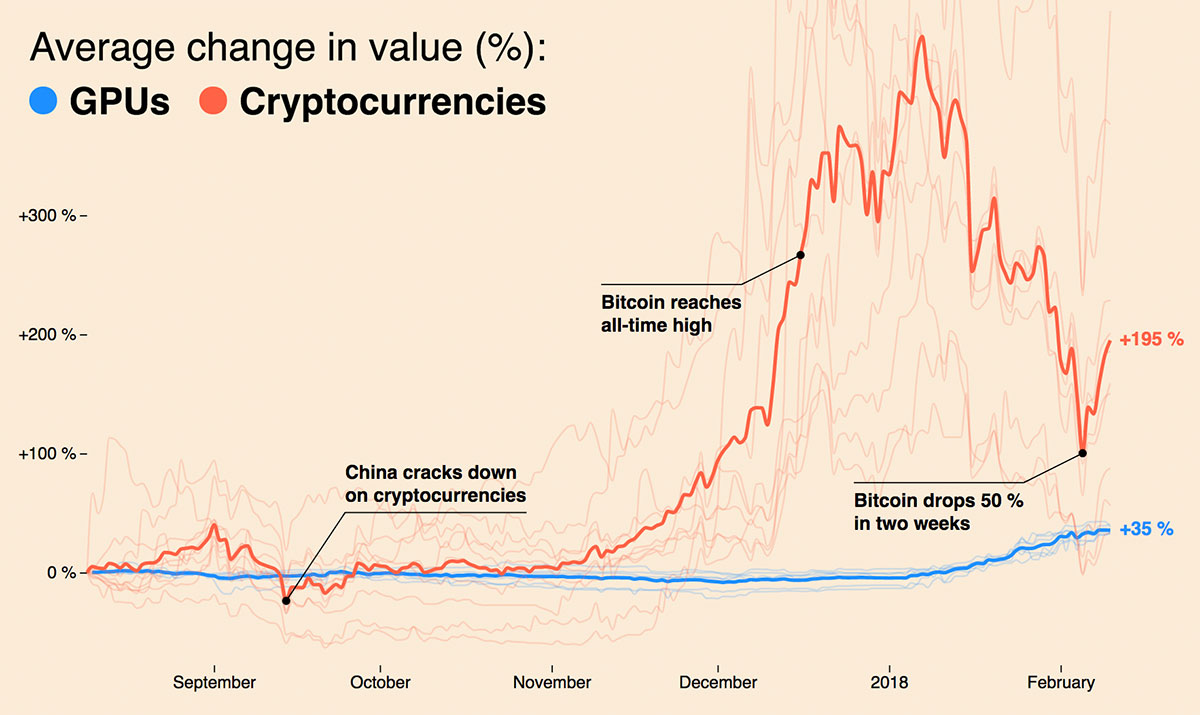
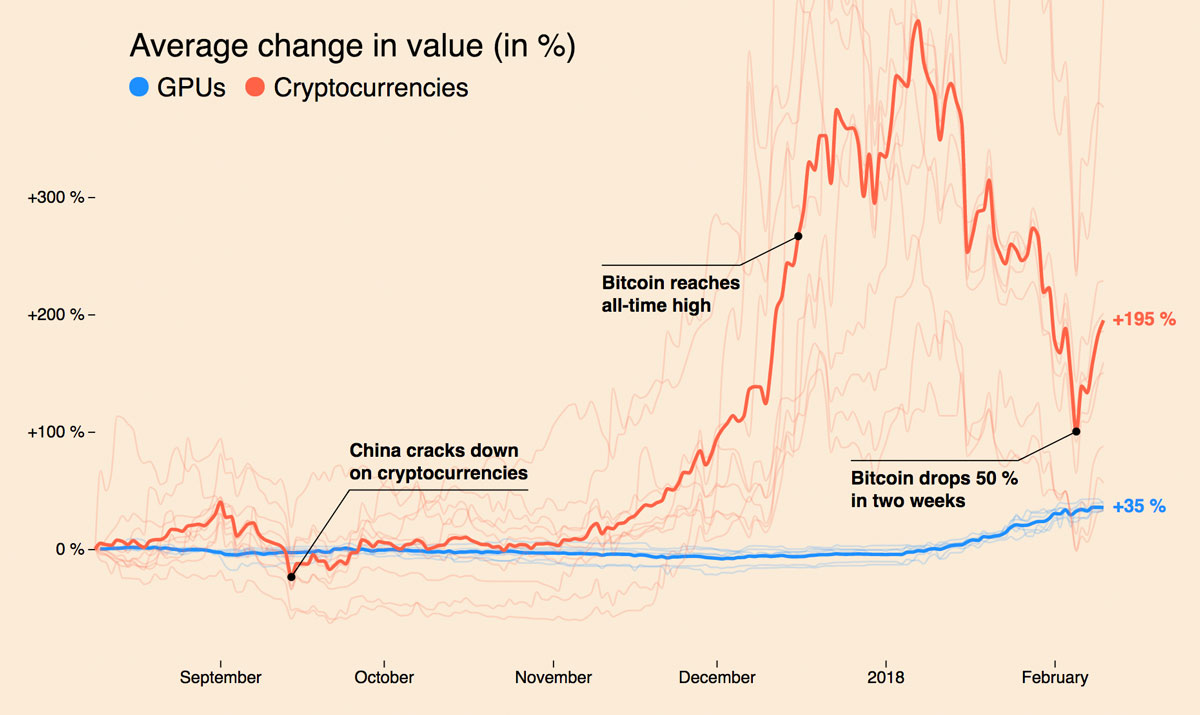
Minor changes

diff --git a/index.html b/index.html
@@ -54,7 +54,7 @@
 
         <p>The price surge is hurting everyone looking to buy a graphics cards for reasons other then cryptocurreny mining. The analysis shows how the increasing value for ten different cryptocurrencies is driving GPU prices on the German online market.</p>
 
-        <h3>Average percentage change in value</h3>
+        <h3 style="margin-bottom: 0">Average change in value (in %)</h3>
         <p class="key"><span class="circle gpus" style="margin-left: 0;"></span> GPUs <span class="circle currencies"></span> Cryptocurrencies</p>
       </div>
     </header>
@@ -62,15 +62,15 @@
     <figure id="chart"></figure>
 
     <section>
-      <p>Cryptocurrency miners are buying lots of mid- to high-end GPUs to keep their operations profitable in a very competitive market. Only half a year ago, the Nvidia Geforce GTX 1070 was available for about €410, now most GTX 1070 models are sold close to €600. The price for the average GPU was already above average in summer, but with the sudden spike in Bitcoin value (and public interest) before Christmas, we are in the middle of a second GPU price surge.</p>
+      <p>Cryptocurrency miners are buying lots of mid- to high-end GPUs to keep their operations profitable in a very competitive market. Only half a year ago, the Nvidia Geforce GTX 1070 was available for about €410, now most GTX 1070 models are sold close to €600. The price for the average GPU was already above average in summer, but with the sudden spike in Bitcoin value – and public interest – before Christmas, we are in the middle of a second GPU price surge.</p>
 
       <p>The price surge is fueled by an increasing demand for alternative cryptocurrencies, like Ethereum and Monero. It’s a problem that’s affecting pricing worldwide and it seems like card vendors can’t keep up with the demand. Countries that are attractive to cryptocurrencies miners (cheap power) might see an even bigger increase in GPU retail prices.</p>
 
-      <p>What could change the current situation? 1. Graphics card manufacturers could try to keep up with the  demand and develop more specialized mining GPUs 2. A sudden and continuing devaluation of cryptocurrencies could flood the second hand market with cheap, used GPUs from unprofitable mining rigs. In either case, we could finally put those GPUs to use again: Play PC games at 4K resolution, train neural networks and crack our neighbors’ WiFi passwords.</p>
+      <p>What could change the current situation? 1.) Graphics card manufacturers could try to keep up with the  demand and develop more specialized mining GPUs. 2.) A sudden and continuing devaluation of cryptocurrencies could flood the second hand market with cheap, used GPUs from unprofitable mining rigs. 3.) Stricter regulations and the loss of confidence due to high price swings could have the same effect. In either case, we could finally put those GPUs to use again: Play PC games at 4K resolution, train neural networks and crack our neighbor’s WiFi password.</p>
 
       <h3>Methodology</h3>
 
-      <p>The list of graphic cards includes popular, mid- to high-end consumer models. The prices have been retrieved from the German price comparison service <a href="https://www.idealo.de/" target="_blank">Idealo</a>and represent the cheapest available price at a given day.</p>
+      <p>The list of graphic cards analyzed includes popular, mid- to high-end consumer models. The prices have been retrieved from the German price comparison service <a href="https://www.idealo.de/" target="_blank">Idealo</a>and represent the cheapest available price at a given day.</p>
 
       <ul>
         <li>GeForce GTX 1080 Ti: <a href="https://www.idealo.de/preisvergleich/OffersOfProduct/5489383_-geforce-gtx-1080-ti-gigabyte.html" target="_blank">GigaByte</a>, <a href="https://www.idealo.de/preisvergleich/OffersOfProduct/5477351_-geforce-gtx-1080-ti-msi.html" target="_blank">MSI</a>, <a href="https://www.idealo.de/preisvergleich/OffersOfProduct/5433497_-geforce-gtx-1080-ti-zotac.html" target="_blank">Zotac</a>
@@ -87,12 +87,12 @@
         </li>
       </ul>
 
-      <p>The Radeon RX Vega56, Vega64 and Geforce GTX TITAN X have been excluded from the analysis, because they are expensive and their prices are very volatile due to retail stock shortages. The old Radeon RX 480 – another popular choice – was excluded because it's only available on the second-hand market.</p>
+      <p>The Radeon RX Vega56, Vega64 and Geforce GTX TITAN X have been excluded from the analysis, because they are expensive and very hard to get due to retail stock shortages. The old Radeon RX 480 – another popular choice – was excluded because it's only available on the second-hand market.</p>
 
       <p>The selection of cryptocurrencies is based on what I consider “important currencies”. To be fair, not all of those cryptocurrencies benefit from a fast GPU. But still, they fuel the current cryptocurrency craze. The price history was retrieved from <a href="https://cryptocompare.com/" target="_blank">CryptoCompare</a>.</p>
 
       <ul>
-        <li>Bitcoin (BTC), Litecoin (LTC), Ethereum (ETH), Ripple (XRP), Nxt (NXT), Ethereum Classic (ETC), Dogecoin (DOGE), ZCash (ZEC), DigitalCash (DASH), NEO (NEO):</li>
+        <li>Bitcoin (BTC), Litecoin (LTC), Ethereum (ETH), Ripple (XRP), Nxt (NXT), Ethereum Classic (ETC), Dogecoin (DOGE), ZCash (ZEC), DigitalCash (DASH), NEO (NEO)</li>
       </ul>
 
       <p>The documentation for the CryptoCompare API can be found <a href="https://min-api.cryptocompare.com/" target="_blank">here</a>.</p>
@@ -100,7 +100,8 @@
 
     <footer>
       <h3>About</h3>
-      <p>Me, code, license</p>
+      <p>Hi, I'm <a href="https://twitter.com/stekhn" target="_blank">Steffen</a>, an interactive news developer from Munich. This project was made with <a href="https://d3js.org/" target="_blank">d3</a> and <a href="http://d3-annotation.susielu.com/" target="_blank">d3-annotation</a>. All the source code and data for this project are on <a href="https://github.com/stekhn/gpu-price-surge-analysis" target="_blank">Github</a>. Feel free to use it for your own projects.</p>
+      <p style="text-align: center; font-size: 2em;">❦</p>
     </footer>
   </article>
 </body>

diff --git a/chart/chart.js b/chart/chart.js
@@ -5,7 +5,7 @@ var height = 500;
 var breakpoint = 640;
 var isMobile = false;
 
-var margin = { top: 10, right: 50, bottom: 40, left: 50 };
+var margin = { top: 10, right: 50, bottom: 30, left: 50 };
 
 var timeout;
 var gpuData, currencyData;
@@ -95,7 +95,7 @@ function drawAxis(current) {
     .range([0, width - margin.left -margin.right]);
 
   var yScale = d3.scaleLinear()
-    .domain([-85, isMobile ? 350 : 250])
+    .domain([-95, isMobile ? 375 : 250])
     .range([height - margin.top -margin.bottom, 0]);
 
   if (current.drawAxis) {
@@ -143,10 +143,7 @@ function drawLines(current) {
       .attr('stroke-opacity', function (d) {
         return d.key == 'average' ? 1 : 0.2;
       })
-      .attr('d', function (d) { return line(d.value); })
-      .on('mouseenter', function(d) {
-        console.log(d);
-      });
+      .attr('d', function (d) { return line(d.value); });
 
   return lines;
 }

diff --git a/chart/chart.css b/chart/chart.css
@@ -55,7 +55,7 @@ header .left {
 header .key {
   font-family: Helvetica, Arial, sans-serif;
   font-size: 1em;
-  font-weight: bold;
+  margin-top: 0
 }
 
 header .circle {
